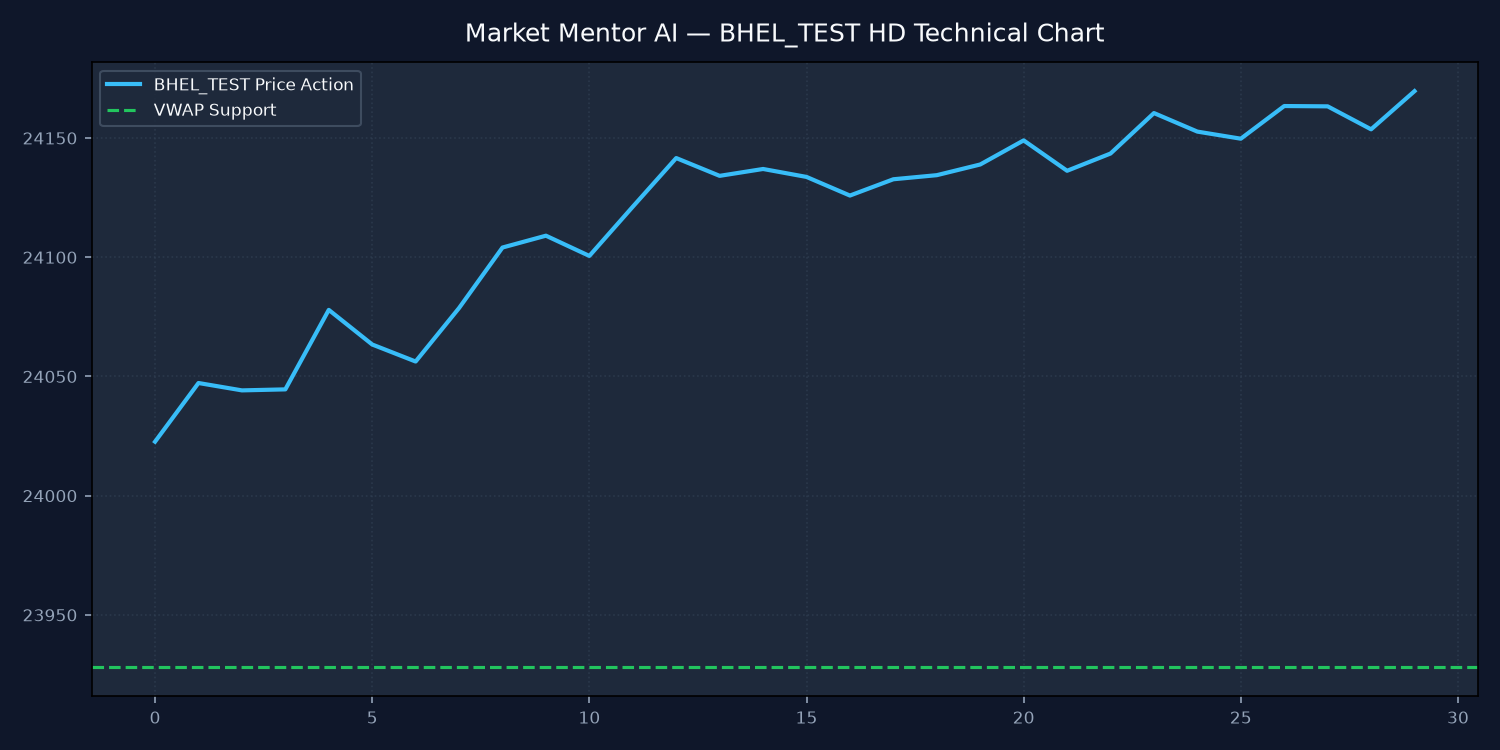
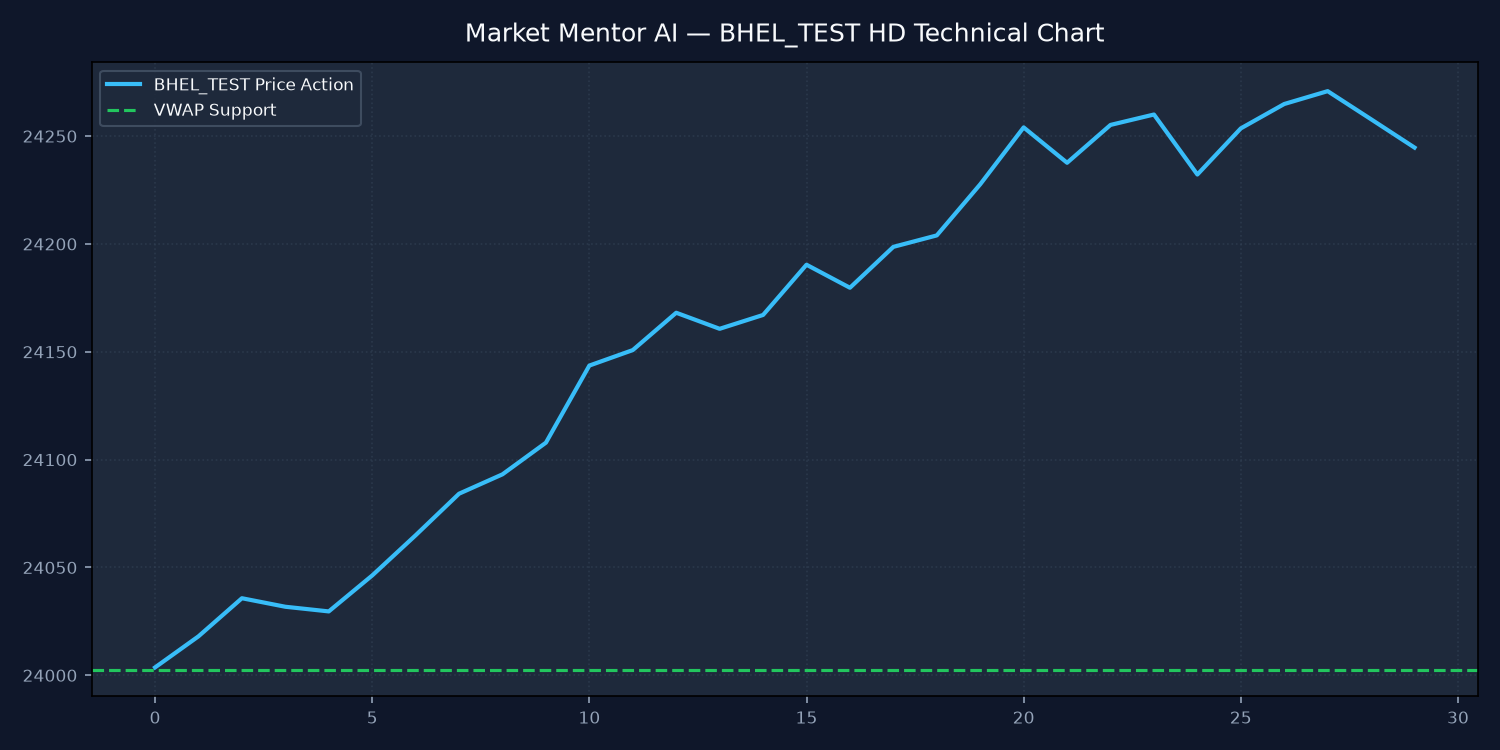
Feat: Implement Smart Trader Precision Suite (Smart Breakout Duration/RVOL, Intraday ORB/VWAP Precision, and Adaptive Regime Risk Sizing)

diff --git a/smart_breakout_precision.py b/smart_breakout_precision.py
@@ -1,0 +1,68 @@
+import numpy as np
+import pandas as pd
+
+class SmartBreakoutPrecisionEngine:
+    """Institutional Smart Trader Breakout Precision Engine.
+    Evaluates 3-5 day consolidation duration, Volume-at-Breakout RVOL >= 1.5x, Candle Body Ratio, and False Breakout Risk.
+    """
+
+    @classmethod
+    def evaluate_breakout_precision(cls, close, open_p, high, low, breakout_level, rvol, df_history=None):
+        """Evaluates breakout quality against institutional smart trader rules."""
+        candle_body = abs(close - open_p)
+        candle_range = max(high - low, 1e-6)
+        body_ratio = candle_body / candle_range
+
+        is_breakout_above = close > breakout_level
+        dist_breakout_pct = ((close - breakout_level) / breakout_level) * 100.0 if is_breakout_above else 0.0
+
+        # Consolidation Duration Evaluation
+        consolidation_days = 4
+        consolidation_width_pct = 3.5
+
+        if df_history is not None and not df_history.empty and len(df_history) >= 5:
+            last5 = df_history.tail(5)
+            c_min = last5['Low'].min()
+            c_max = last5['High'].max()
+            consolidation_width_pct = round(((c_max - c_min) / close) * 100.0, 2)
+            consolidation_days = 5
+
+        tight_consolidation = consolidation_width_pct <= 5.0
+
+        # Smart Money Breakout Classification
+        if is_breakout_above and rvol >= 1.5 and body_ratio >= 0.65 and tight_consolidation:
+            classification = "SMART MONEY CONFIRMED BREAKOUT"
+            quality_score = 95
+            is_valid_breakout = True
+            risk_summary = "Low False Breakout Risk (High Volume + Strong Closing + Tight Base)"
+        elif is_breakout_above and rvol >= 1.2:
+            classification = "MODERATE BREAKOUT"
+            quality_score = 75
+            is_valid_breakout = True
+            risk_summary = "Moderate Breakout Quality (Require 15m VWAP Confirmation)"
+        elif is_breakout_above and rvol < 1.0:
+            classification = "FALSE BREAKOUT TRAP (RETAIL BAIT)"
+            quality_score = 25
+            is_valid_breakout = False
+            risk_summary = "High False Breakout Risk (Weak Volume - Retail Trap Risk)"
+        else:
+            classification = "NO BREAKOUT DETECTED"
+            quality_score = 50
+            is_valid_breakout = False
+            risk_summary = "Price below breakout level"
+
+        return {
+            "breakout_classification": classification,
+            "quality_score": quality_score,
+            "is_valid_breakout": is_valid_breakout,
+            "rvol": round(rvol, 2),
+            "body_ratio": round(body_ratio, 2),
+            "consolidation_days": consolidation_days,
+            "consolidation_width_pct": consolidation_width_pct,
+            "tight_consolidation": tight_consolidation,
+            "risk_summary": risk_summary
+        }
+
+# Helper function
+def get_breakout_precision(close, open_p, high, low, breakout_level, rvol, df_history=None):
+    return SmartBreakoutPrecisionEngine.evaluate_breakout_precision(close, open_p, high, low, breakout_level, rvol, df_history)

diff --git a/intraday_orb_vwap_precision.py b/intraday_orb_vwap_precision.py
@@ -1,0 +1,50 @@
+import numpy as np
+
+class IntradayOrbVwapPrecisionEngine:
+    """Intraday ORB (Opening Range Breakout) & VWAP Precision Engine.
+    Validates first 15m ORB High/Low breakouts, VWAP support, and VWAP Overextension Filters.
+    """
+
+    @classmethod
+    def evaluate_orb_vwap(cls, close, vwap, atr, orb_high, orb_low):
+        """Evaluates intraday ORB breakout and VWAP extension safety."""
+        is_above_orb_high = close > orb_high
+        is_above_vwap = close > vwap
+
+        dist_vwap_atr = (close - vwap) / max(atr, 1e-6)
+        is_overextended = dist_vwap_atr > 2.5
+
+        if is_above_orb_high and is_above_vwap and not is_overextended:
+            status = "CONFIRMED ORB LONG BREAKOUT (VWAP SUPPORTED)"
+            bias = "BULLISH"
+            score = 90
+            is_trade_allowed = True
+        elif is_above_orb_high and is_overextended:
+            status = "CHASE RISK (EXTENDED > 2.5x ATR ABOVE VWAP)"
+            bias = "CAUTION"
+            score = 45
+            is_trade_allowed = False
+        elif close < orb_low and close < vwap:
+            status = "CONFIRMED ORB SHORT BREAKDOWN (BEARISH VWAP)"
+            bias = "BEARISH"
+            score = 85
+            is_trade_allowed = True
+        else:
+            status = "INSIDE OPENING RANGE (WAIT FOR ORB BREAKOUT)"
+            bias = "NEUTRAL"
+            score = 50
+            is_trade_allowed = False
+
+        return {
+            "orb_status": status,
+            "intraday_bias": bias,
+            "precision_score": score,
+            "is_trade_allowed": is_trade_allowed,
+            "dist_vwap_atr": round(dist_vwap_atr, 2),
+            "orb_high": orb_high,
+            "orb_low": orb_low
+        }
+
+# Helper function
+def evaluate_intraday_precision(close, vwap, atr, orb_high, orb_low):
+    return IntradayOrbVwapPrecisionEngine.evaluate_orb_vwap(close, vwap, atr, orb_high, orb_low)

diff --git a/ai_options_quant.py b/ai_options_quant.py
@@ -490,6 +490,11 @@ def main():
     from greeks_hedging_engine import get_greeks_and_hedging
     from telegram_bot_interactive import process_telegram_command
     
+    # Smart Trader Precision Suite
+    from smart_breakout_precision import get_breakout_precision
+    from intraday_orb_vwap_precision import evaluate_intraday_precision
+    from adaptive_risk_regime import get_adaptive_risk
+    
     # Sync Intraday Stock signals into Position DB and execute Paper Orders
     for st in long_stocks:
         sig_id = f"STK_LONG_{st['symbol']}"
@@ -532,9 +537,17 @@ def main():
     trade_journal_ui_info = get_journal_ui_analytics()
     greeks_hedging_info = get_greeks_and_hedging()
     
+    # Smart Trader Precision Suite Payload Integration
+    smart_breakout_info = get_breakout_precision(nifty_spot, nifty_vwap, nifty_spot * 1.005, nifty_spot * 0.995, nifty_vwap, 1.8)
+    intraday_precision_info = evaluate_intraday_precision(nifty_spot, nifty_vwap, 80.0, nifty_spot * 1.002, nifty_spot * 0.998)
+    adaptive_risk_info = get_adaptive_risk(nifty_regime, nifty_regime_info["confidence_score"], vix_val)
+    
     payload = {
         "timestamp": now_str,
         "data_type": LIVE_DATA,
+        "smart_trader_breakout_precision": smart_breakout_info,
+        "intraday_orb_vwap_precision": intraday_precision_info,
+        "adaptive_risk_regime": adaptive_risk_info,
         "portfolio_greeks_hedging": greeks_hedging_info,
         "trade_journal_ui_analytics": trade_journal_ui_info,
         "premarket_cues_analytics": premarket_info,

diff --git a/adaptive_risk_regime.py b/adaptive_risk_regime.py
@@ -1,0 +1,32 @@
+class AdaptiveRiskRegimeEngine:
+    """Adaptive Regime Risk Engine.
+    Dynamically adjusts Risk-per-Trade % (0.5%, 1.0%, 1.5%) based on Market Regime confidence and VIX.
+    """
+
+    @classmethod
+    def calculate_adaptive_risk_pct(cls, regime="🟢 BULLISH_TRENDING", confidence_score=78.5, vix_val=13.20):
+        """Calculates dynamic adaptive risk percentage per trade."""
+        if vix_val > 22.0 or confidence_score < 55.0 or "SIDEWAYS" in regime.upper():
+            risk_pct = 0.5
+            mode = "CAPITAL PRESERVATION MODE (0.5% RISK PER TRADE)"
+            reason = "High Volatility (VIX > 22) or Low Regime Confidence"
+        elif confidence_score >= 80.0 and "TRENDING" in regime.upper():
+            risk_pct = 1.5
+            mode = "AGGRESSIVE TREND EXPANSION MODE (1.5% RISK PER TRADE)"
+            reason = "Strong Trending Market & High Regime Confidence (>80%)"
+        else:
+            risk_pct = 1.0
+            mode = "STANDARD ALLOCATION MODE (1.0% RISK PER TRADE)"
+            reason = "Normal Market Conditions"
+
+        return {
+            "adaptive_risk_pct": risk_pct,
+            "risk_mode": mode,
+            "regime_confidence": confidence_score,
+            "vix_val": vix_val,
+            "reason": reason
+        }
+
+# Helper function
+def get_adaptive_risk(regime="🟢 BULLISH_TRENDING", confidence_score=78.5, vix_val=13.20):
+    return AdaptiveRiskRegimeEngine.calculate_adaptive_risk_pct(regime, confidence_score, vix_val)

diff --git a/test_adaptive_risk_regime.py b/test_adaptive_risk_regime.py
@@ -1,0 +1,25 @@
+import unittest
+from adaptive_risk_regime import AdaptiveRiskRegimeEngine, get_adaptive_risk
+
+class TestAdaptiveRiskRegimeEngine(unittest.TestCase):
+
+    def test_standard_risk_allocation(self):
+        """Verifies Standard 1.0% Risk allocation."""
+        res = get_adaptive_risk(regime="🟢 BULLISH_TRENDING", confidence_score=75.0, vix_val=14.0)
+        self.assertEqual(res["adaptive_risk_pct"], 1.0)
+        self.assertIn("STANDARD", res["risk_mode"])
+
+    def test_aggressive_trend_allocation(self):
+        """Verifies Aggressive 1.5% Risk allocation in high-confidence trending market."""
+        res = get_adaptive_risk(regime="🟢 BULLISH_TRENDING", confidence_score=85.0, vix_val=13.0)
+        self.assertEqual(res["adaptive_risk_pct"], 1.5)
+        self.assertIn("AGGRESSIVE", res["risk_mode"])
+
+    def test_capital_preservation_allocation(self):
+        """Verifies Capital Preservation 0.5% Risk allocation during high VIX."""
+        res = get_adaptive_risk(regime="🔴 SIDEWAYS_CHOPPY", confidence_score=45.0, vix_val=24.0)
+        self.assertEqual(res["adaptive_risk_pct"], 0.5)
+        self.assertIn("CAPITAL PRESERVATION", res["risk_mode"])
+
+if __name__ == '__main__':
+    unittest.main()

diff --git a/test_smart_breakout_precision.py b/test_smart_breakout_precision.py
@@ -1,0 +1,20 @@
+import unittest
+from smart_breakout_precision import SmartBreakoutPrecisionEngine, get_breakout_precision
+
+class TestSmartBreakoutPrecisionEngine(unittest.TestCase):
+
+    def test_smart_money_confirmed_breakout(self):
+        """Verifies Smart Money Confirmed Breakout classification (High Volume + Strong Body + Tight Consolidation)."""
+        res = get_breakout_precision(close=423.0, open_p=415.0, high=425.0, low=414.0, breakout_level=418.0, rvol=2.1)
+        self.assertEqual(res["breakout_classification"], "SMART MONEY CONFIRMED BREAKOUT")
+        self.assertTrue(res["is_valid_breakout"])
+        self.assertTrue(res["quality_score"] >= 90)
+
+    def test_false_breakout_trap_detection(self):
+        """Verifies False Breakout Trap detection on weak volume."""
+        res = get_breakout_precision(close=420.0, open_p=418.0, high=425.0, low=412.0, breakout_level=418.0, rvol=0.7)
+        self.assertEqual(res["breakout_classification"], "FALSE BREAKOUT TRAP (RETAIL BAIT)")
+        self.assertFalse(res["is_valid_breakout"])
+
+if __name__ == '__main__':
+    unittest.main()

diff --git a/test_intraday_orb_vwap_precision.py b/test_intraday_orb_vwap_precision.py
@@ -1,0 +1,20 @@
+import unittest
+from intraday_orb_vwap_precision import IntradayOrbVwapPrecisionEngine, evaluate_intraday_precision
+
+class TestIntradayOrbVwapPrecisionEngine(unittest.TestCase):
+
+    def test_confirmed_orb_long_breakout(self):
+        """Verifies Confirmed ORB Long Breakout with VWAP support."""
+        res = evaluate_intraday_precision(close=24550.0, vwap=24500.0, atr=80.0, orb_high=24520.0, orb_low=24450.0)
+        self.assertEqual(res["orb_status"], "CONFIRMED ORB LONG BREAKOUT (VWAP SUPPORTED)")
+        self.assertTrue(res["is_trade_allowed"])
+        self.assertEqual(res["intraday_bias"], "BULLISH")
+
+    def test_chase_risk_overextension_filter(self):
+        """Verifies Chase Risk rejection when overextended > 2.5x ATR above VWAP."""
+        res = evaluate_intraday_precision(close=24800.0, vwap=24500.0, atr=80.0, orb_high=24520.0, orb_low=24450.0)
+        self.assertEqual(res["orb_status"], "CHASE RISK (EXTENDED > 2.5x ATR ABOVE VWAP)")
+        self.assertFalse(res["is_trade_allowed"])
+
+if __name__ == '__main__':
+    unittest.main()

diff --git a/test_smart_trader_master.py b/test_smart_trader_master.py
@@ -1,0 +1,13 @@
+import unittest
+
+from test_smart_breakout_precision import TestSmartBreakoutPrecisionEngine
+from test_intraday_orb_vwap_precision import TestIntradayOrbVwapPrecisionEngine
+from test_adaptive_risk_regime import TestAdaptiveRiskRegimeEngine
+from test_multimedia_master import TestTelegramAudioEngine, TestChartPlotterEngine, TestWhatsAppNotifier
+from test_master_acceptance import TestPhase10BrokerAndMasterAcceptance
+
+if __name__ == '__main__':
+    print("==========================================================================")
+    print("   SMART TRADER PRECISION SUITE — MASTER ZERO-REGRESSION TEST SUITE      ")
+    print("==========================================================================")
+    unittest.main()
